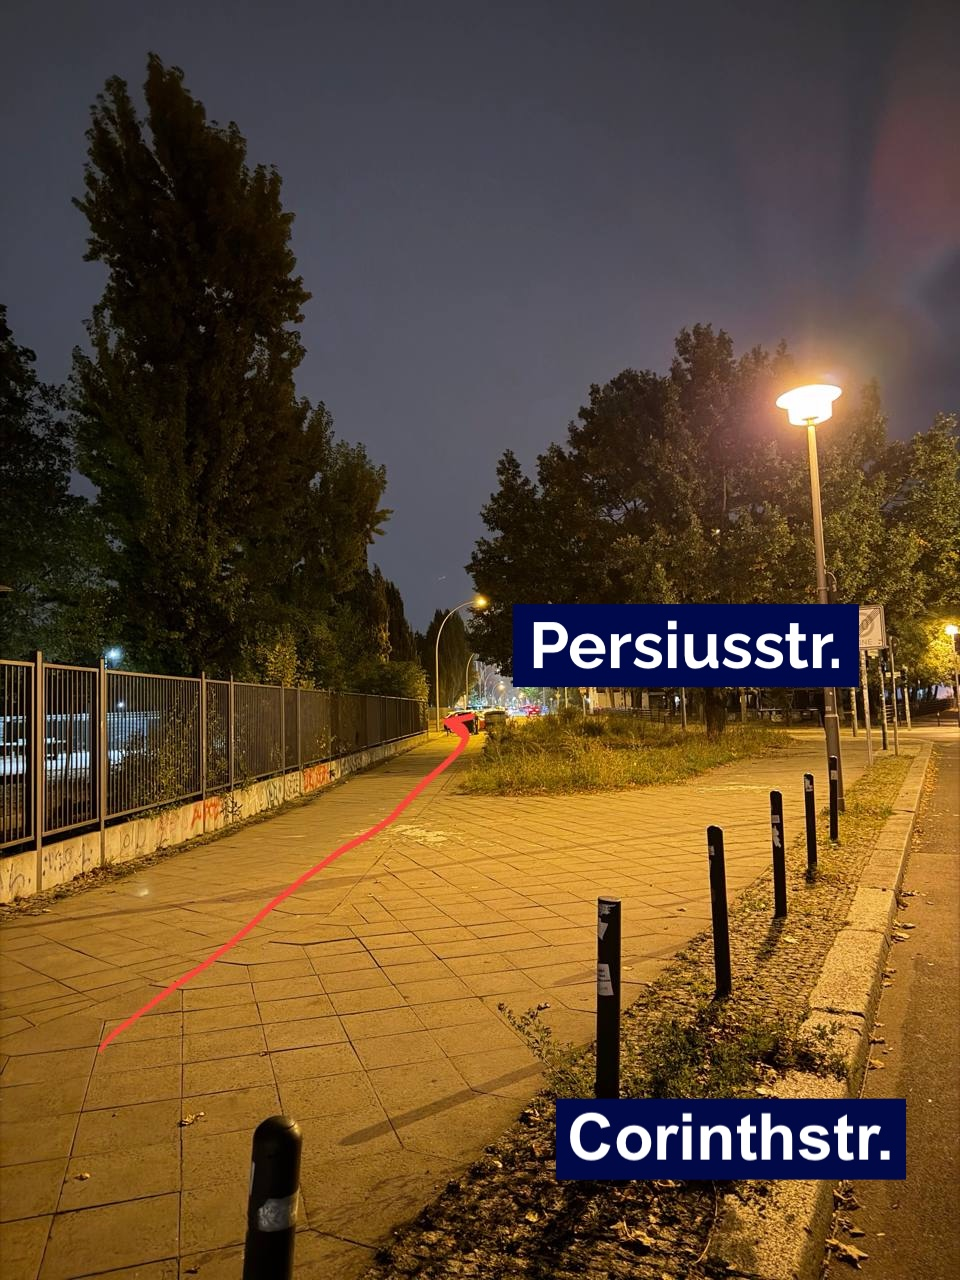
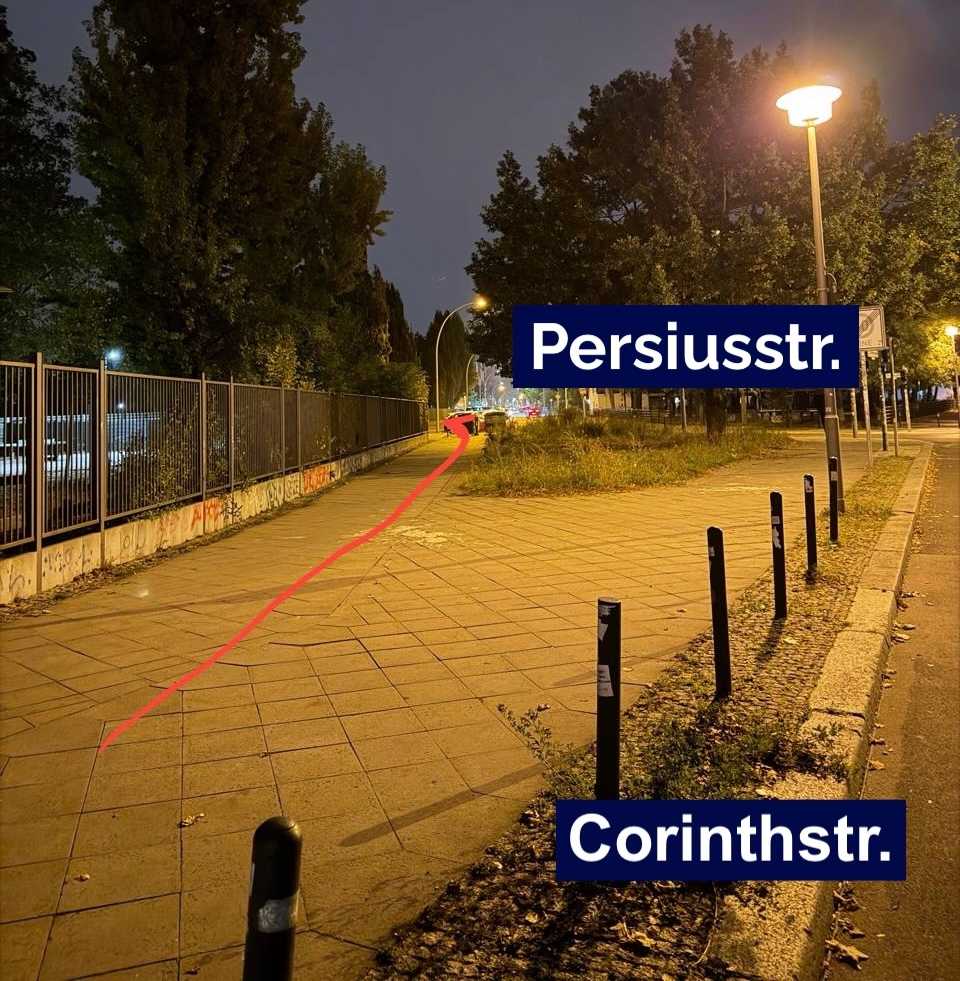
Add Tue map

diff --git a/tuesday.html b/tuesday.html
@@ -33,8 +33,9 @@
         </div>
       </div>
 
+      <img src="assets/tuesday-map.png" width="100%" />
       <img src="assets/corinthstr-persiusstr.jpg" width="100%" />
-      <img src="assets/eingang-persiusstr.jpg" width="100%" />
+      <img src="assets/entrance-persiusstr.jpg" width="100%" />
       <img src="assets/campus1.jpg" width="100%" />
     </main>
 
